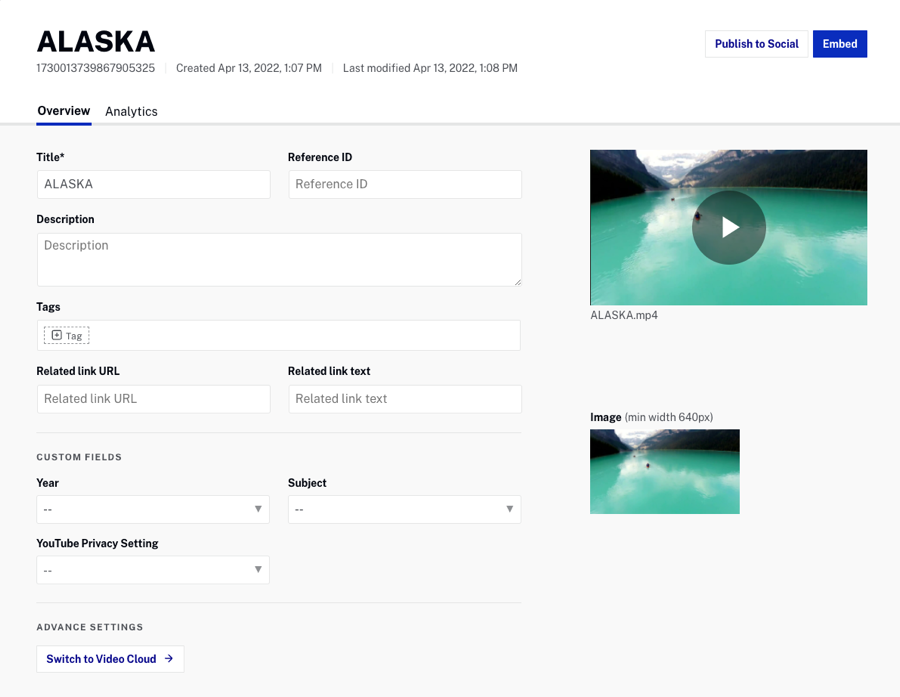
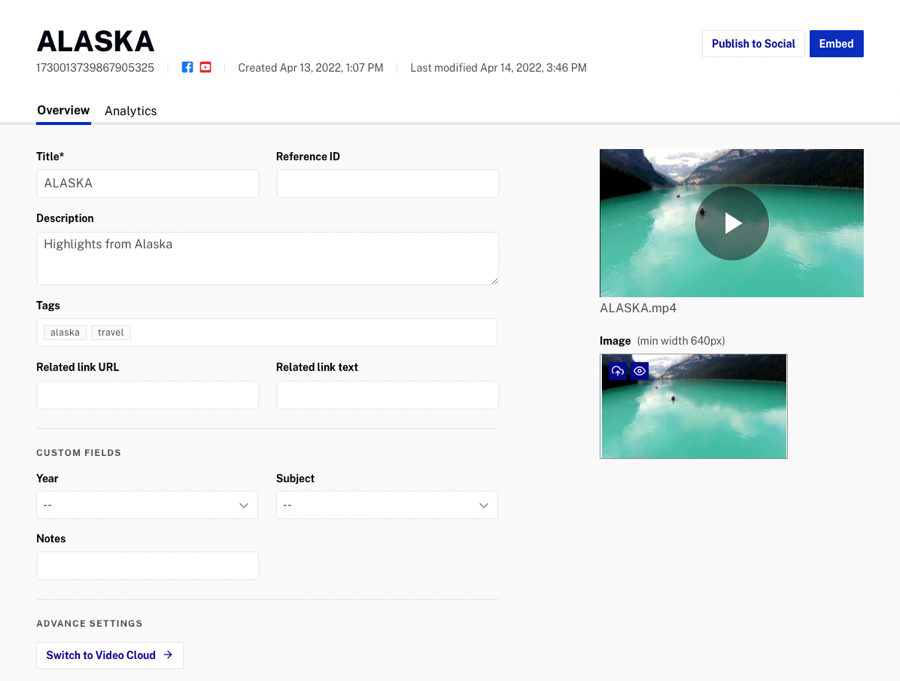
image uploads

diff --git a/_site/media/editing-video-details.html b/_site/media/editing-video-details.html
@@ -304,6 +304,7 @@ function doGTranslate(lang_pair) {if(lang_pair.value)lang_pair=lang_pair.value;i
     <ul>
       <li>Video title</li>
       <li>Video ID</li>
+      <li>Icons representing social media sites the video has been posted to</li>
       <li>Created date and time</li>
       <li>Last modified date and time</li>
     </ul>
@@ -348,6 +349,15 @@ function doGTranslate(lang_pair) {if(lang_pair.value)lang_pair=lang_pair.value;i
     <p>Changes are saved as you tab out of a field.</p>
     <h3>Preview player and image</h3>
     <p>A preview player and Image will appear on the right side of the page. The preview player can be used to preview the video. The image will be displayed in the playback area of the video player after the player loads and will display until the viewer presses the play button.</p>
+    <h3>Uploading a new image</h3>
+    <p>When videos are uploaded, video images are created automatically by taking a snapshot from the source video at the midway point. If you don't like the default image that was captured, you can upload a new video image.</p>
+    <ol class="bcls-tasklist-restart">
+      <li>Hover over the  image and click the upload button.
+        <figure class="bcls-figure"><img class="bcls-image--no-border" alt="" src="/assets/images/media/editing-video-details/upload-image.png" /></figure>
+      </li>
+      <li>Browse and select a new image. It may take a minute for the processing to complete and for the images to appear in the Media module.</li>
+    </ol>
+    <aside class="bcls-aside bcls-aside--information">Note: .png and .jpg images are supported.</aside>
   </section>
   <section class="bcls-section">
     <h2 id="analytics">Analytics details</h2>

diff --git a/media/editing-video-details.html b/media/editing-video-details.html
@@ -17,6 +17,7 @@ layout: staging
     <ul>
       <li>Video title</li>
       <li>Video ID</li>
+      <li>Icons representing social media sites the video has been posted to</li>
       <li>Created date and time</li>
       <li>Last modified date and time</li>
     </ul>
@@ -61,6 +62,15 @@ layout: staging
     <p>Changes are saved as you tab out of a field.</p>
     <h3>Preview player and image</h3>
     <p>A preview player and Image will appear on the right side of the page. The preview player can be used to preview the video. The image will be displayed in the playback area of the video player after the player loads and will display until the viewer presses the play button.</p>
+    <h3>Uploading a new image</h3>
+    <p>When videos are uploaded, video images are created automatically by taking a snapshot from the source video at the midway point. If you don't like the default image that was captured, you can upload a new video image.</p>
+    <ol class="bcls-tasklist-restart">
+      <li>Hover over the  image and click the upload button.
+        <figure class="bcls-figure"><img class="bcls-image--no-border" alt="" src="/assets/images/media/editing-video-details/upload-image.png" /></figure>
+      </li>
+      <li>Browse and select a new image. It may take a minute for the processing to complete and for the images to appear in the Media module.</li>
+    </ol>
+    <aside class="bcls-aside bcls-aside--information">Note: .png and .jpg images are supported.</aside>
   </section>
   <section class="bcls-section">
     <h2 id="analytics">Analytics details</h2>
